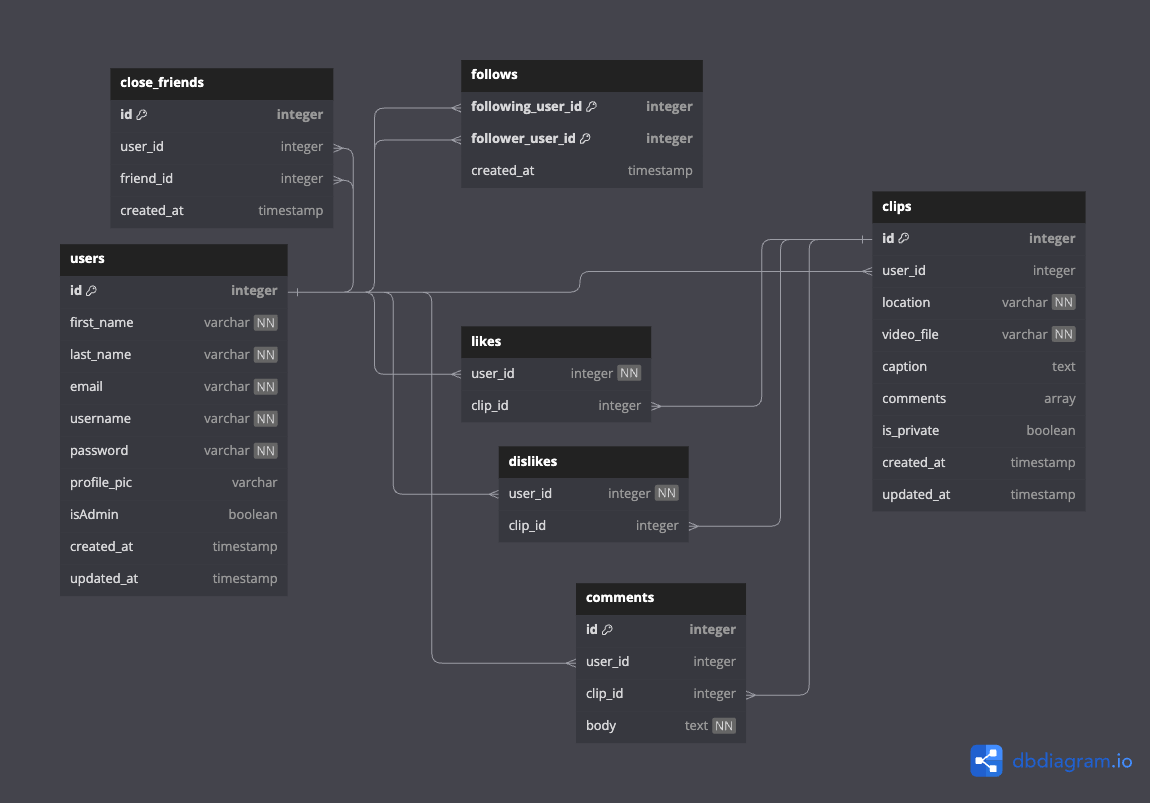
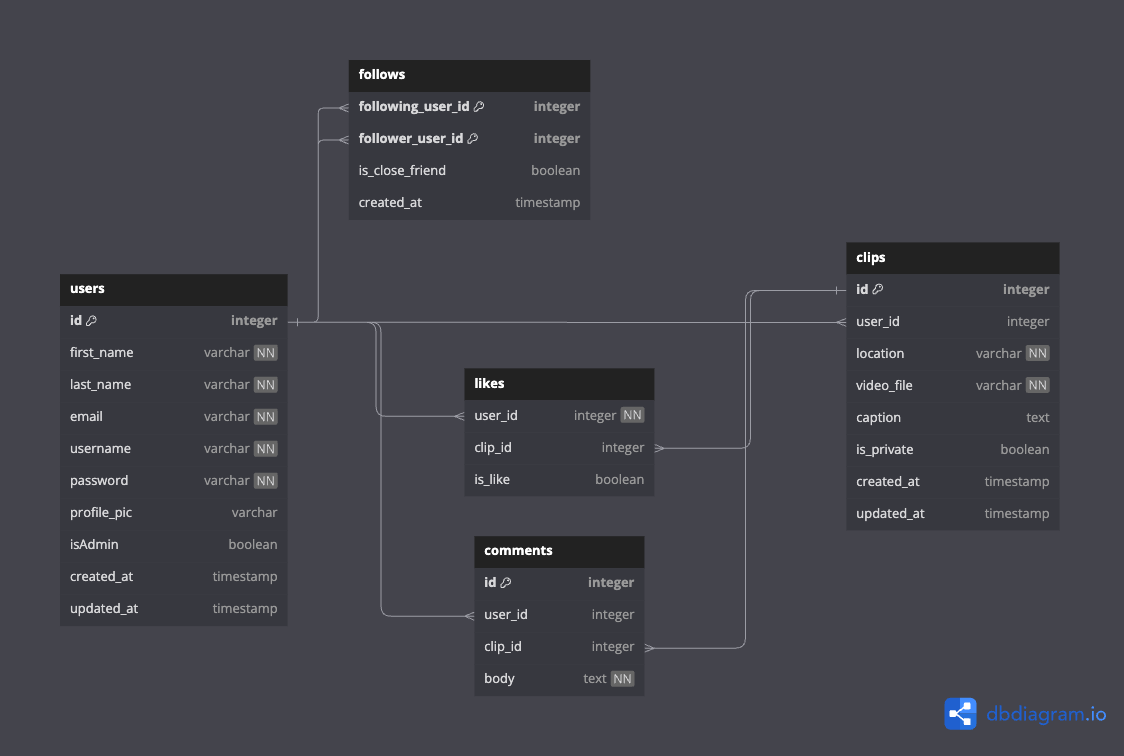
finalized schema & api documentation

diff --git a/api_backend_documentation.md b/api_backend_documentation.md
@@ -417,7 +417,6 @@ Creates and returns a new clip
         "location": "Paris",
         "video_file": "aws video link",
         "caption": "Paris in Spring",
-        "comments": [],
         "is_private": false,
         "created_at": "2024-04-20 18:20:00"
       }
@@ -477,7 +476,6 @@ Updates and returns an existing clip
         "location": "London",
         "video_file": "aws video link",
         "caption": "London in Spring",
-        "comments": [],
         "is_private": false,
         "created_at": "2024-04-20 18:20:00"
       }
@@ -796,7 +794,7 @@ Deletes an existing Comment
 
 ## Likes
 
-### Get all likes by clip_id
+### Get all likes & dislikes by clip_id
 
 Returns a count of all the likes by clip
 
@@ -817,45 +815,7 @@ Returns a count of all the likes by clip
   ```json
   {
       {
-        "likes": <number of likes>
-      }
-  }
-  ```
-
-* Error response: Couldn't find a Clip with the specified id
-
-- Status Code: 404
-- Headers:
-- Content-Type: application/json
-- Body:
-
-  ```json
-  {
-    "message": "Clip couldn't be found"
-  }
-  ```
-
-### Get all dislikes by clip_id
-
-Returns a count of all the dislikes by clip
-
-- Require Authentication: false
-- Require Authorization: false
-
-* Request:
-  - Method: GET
-  - URL: /api/clips/:clipId/dislikes
-  - Body: None
-
-* Successful Response:
-  - Status Code: 200
-  - Headers:
-    - Content-Type: application/json
-  - Body:
-
-  ```json
-  {
-      {
+        "likes": <number of likes>,
         "dislikes": <number of dislikes>
       }
   }
@@ -924,7 +884,8 @@ Creates and returns a like
   - Body:
   ```json
   {
-    "clip_id": 1
+    "clip_id": 1,
+    "is_like": true
   }
   ```
 * Successful Response:
@@ -949,35 +910,6 @@ Creates and returns a like
 	"message": "Clip couldn't be found"
 }
 ```
-
-### Create a dislike
-
-Creates and returns a dislike
-
-- Require Authentication: true
-- Require Authorization: false
-
-* Request:
-  - Method: POST
-  - URL: /api/clips/:clipId/dislikes
-  - Headers:
-    - Content-Type: application/json
-  - Body:
-  ```json
-  {
-    "clip_id": 1
-  }
-  ```
-* Successful Response:
-  - Status Code: 201
-  - Headers:
-    - Content-Type: application/json
-  - Body:
-  ```json
-  {
-  	"message": "You have successfully disliked the Clip"
-  }
-  ```
 
 * Error Response:
   - Status Code: 404
@@ -1006,7 +938,8 @@ Updates and returns an existing like, turned into a dislike
   - Body:
   ```json
   {
-    "clip_id": 1
+    "clip_id": 1,
+    "is_like": false
   }
   ```
 * Successful Response:
@@ -1017,47 +950,6 @@ Updates and returns an existing like, turned into a dislike
   ```json
   {
   	"message": "You have successfully disliked the Clip"
-  }
-  ```
-
-* Error Response:
-  - Status Code: 404
-  - Headers:
-    - Content-Type: application/json
-  - Body:
-
-```json
-{
-	"message": "Clip couldn't be found"
-}
-```
-
-### Edit a dislike
-
-Updates and returns an existing dislike, turned into a like
-
-- Require Authentication: true
-- Require Authorization: dislike must be created by logged in user
-
-* Request:
-  - Method: PUT
-  - URL: /api/clips/:clipId/dislikes
-  - Headers:
-    - Content-Type: application/json
-  - Body:
-  ```json
-  {
-    "clip_id": 1
-  }
-  ```
-* Successful Response:
-  - Status Code: 200
-  - Headers:
-    - Content-Type: application/json
-  - Body:
-  ```json
-  {
-  	"message": "You have successfully liked the Clip"
   }
   ```
 
@@ -1105,41 +997,6 @@ Deletes a like for a Clip
 ```json
 {
 	"message": "Like couldn't be found"
-}
-```
-
-### Delete a dislike
-Deletes a like for a Clip
-
-- Require Authentication: true
-- Require Authorization: Deleted dislike must be owned by logged in user
-
-* Request:
-  - Method: DELETE
-  - URL: /api/clips/:clipId/dislikes
-  - Headers:
-    - Content-Type: application/json
-  - Body: None
-
-* Successful Response:
-  - Status Code: 200
-  - Headers:
-    - Content-Type: application/json
-```json
-{
-	"message": "Successfully Deleted Dislike"
-}
-```
-
-* Error Response:
-  - Status Code: 404
-  - Headers:
-    - Content-Type: application/json
-  - Body:
-
-```json
-{
-	"message": "Dislike couldn't be found"
 }
 ```
 
@@ -1229,21 +1086,46 @@ Creates and returns a follow
   }
   ```
 
-### Update a follow
+* Error Response: You already follow the user
+  - Status Code: 400
+  - Headers:
+    - Content-Type: application/json
+  - Body:
 
-Updates and returns an existing follow to a close friend
+```json
+{
+	"message": "You are already following the user"
+}
+```
+
+* Error Response: User does not exist
+  - Status Code: 400
+  - Headers:
+    - Content-Type: application/json
+  - Body:
+
+```json
+{
+	"message": "User could not be found"
+}
+```
+
+### Update a follower to a close friend
+
+Updates and returns an existing follower to a close friend
 
 - Require Authentication: true
 - Require Authorization: follow must be created by logged in user
 
 * Request:
   - Method: PUT
-  - URL: /api/follows/following/:userId
+  - URL: /api/follows/follower/:userId
   - Body:
 
   ```json
   {
-    "following_user_id": 1
+    "follower_user_id": 1,
+    "is_close_friend": true
   }
   ```
 
@@ -1260,6 +1142,42 @@ Updates and returns an existing follow to a close friend
       }
   }
   ```
+
+* Error Response: User does not follow you
+  - Status Code: 400
+  - Headers:
+    - Content-Type: application/json
+  - Body:
+
+```json
+{
+	"message": "The user does not follow you"
+}
+```
+
+* Error Response: User is already a close friend
+  - Status Code: 400
+  - Headers:
+    - Content-Type: application/json
+  - Body:
+
+```json
+{
+	"message": "User is already a close friend"
+}
+```
+
+* Error Response: User does not exist
+  - Status Code: 400
+  - Headers:
+    - Content-Type: application/json
+  - Body:
+
+```json
+{
+	"message": "User could not be found"
+}
+```
 
 ### Delete a follow
 
@@ -1292,3 +1210,83 @@ Deletes an existing follow
       }
   }
   ```
+
+* Error Response: You are not following the user
+  - Status Code: 400
+  - Headers:
+    - Content-Type: application/json
+  - Body:
+
+```json
+{
+	"message": "You do not follow the user"
+}
+```
+
+* Error Response: User does not exist
+  - Status Code: 400
+  - Headers:
+    - Content-Type: application/json
+  - Body:
+
+```json
+{
+	"message": "User could not be found"
+}
+```
+
+### Delete a follower
+
+Deletes an existing follower
+
+- Require Authentication: true
+- Require Authorization: follower must be a follower of the logged in user
+
+* Request:
+  - Method: DELETE
+  - URL: /api/follows/follower/:userId
+  - Body:
+
+  ```json
+  {
+    "follower_user_id": 1
+  }
+  ```
+
+* Successful Response:
+  - Status Code: 200
+  - Headers:
+    - Content-Type: application/json
+  - Body:
+
+  ```json
+  {
+      {
+        "message": "<user> has been removed from your follower list"
+      }
+  }
+  ```
+
+* Error Response: User does not exist
+  - Status Code: 400
+  - Headers:
+    - Content-Type: application/json
+  - Body:
+
+```json
+{
+	"message": "User could not be found"
+}
+```
+
+* Error Response: User does not follow you
+  - Status Code: 400
+  - Headers:
+    - Content-Type: application/json
+  - Body:
+
+```json
+{
+	"message": "User does not follow you"
+}
+```
